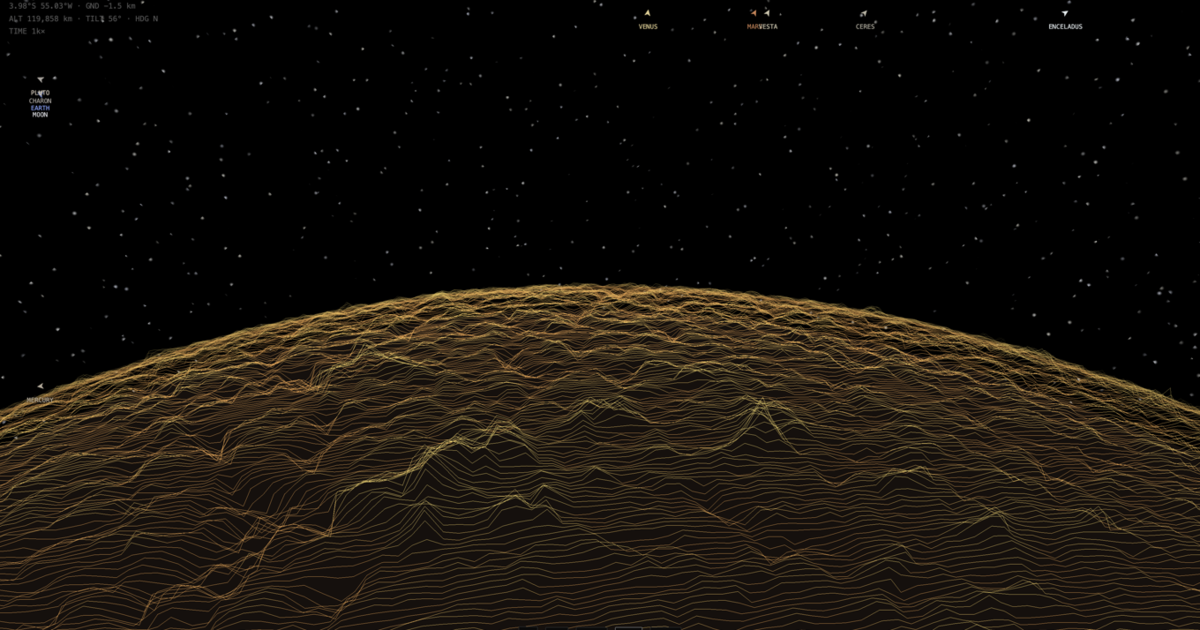
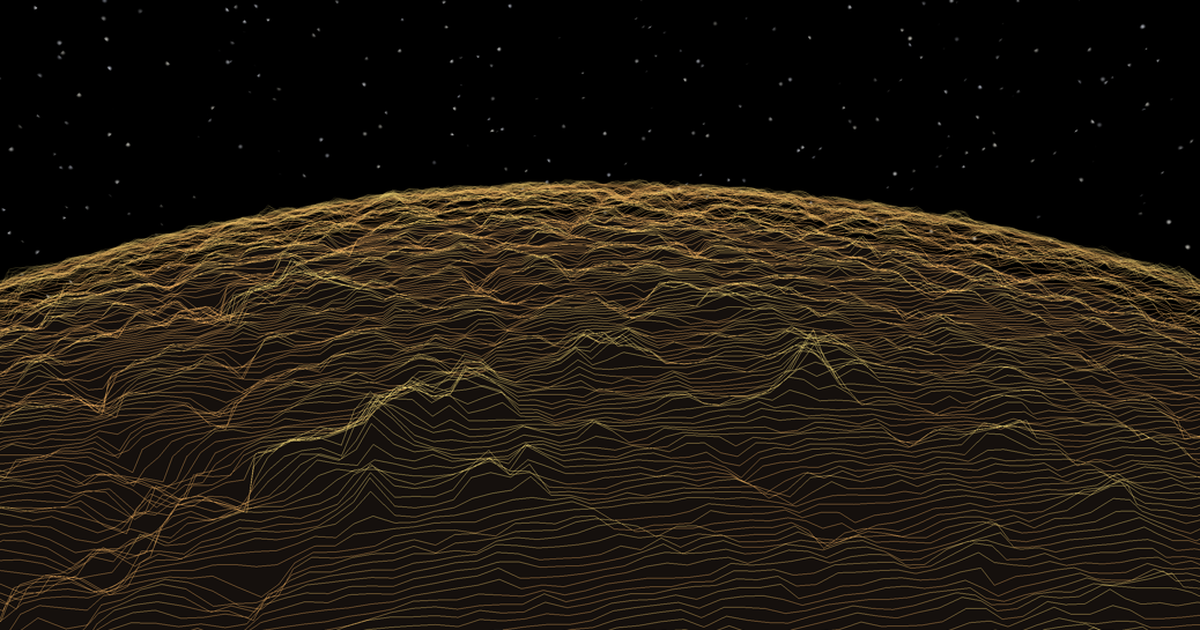
OG cards: tighter astres crop, larger home line, no em-dash in card titles

diff --git a/astres/index.html b/astres/index.html
@@ -5,7 +5,7 @@
   <meta name="viewport" content="width=device-width, initial-scale=1">
   <title>astres — trucs.ai</title>
   <meta name="description" content="The solar system drawn as stacked ridgeline graphs from real elevation data. Rust + WebAssembly + WebGPU, running in your browser.">
-  <meta property="og:title" content="astres — trucs.ai">
+  <meta property="og:title" content="astres · trucs.ai">
   <meta property="og:description" content="The solar system drawn as stacked ridgeline graphs from real elevation data. Rust + WebAssembly + WebGPU, running in your browser.">
   <meta property="og:image" content="https://trucs.ai/assets/og/astres.png">
   <meta property="og:url" content="https://trucs.ai/astres/">

diff --git a/stt-llm-tts/index.html b/stt-llm-tts/index.html
@@ -5,7 +5,7 @@
   <meta name="viewport" content="width=device-width, initial-scale=1">
   <title>stt + llm + tts — trucs.ai</title>
   <meta name="description" content="Speak, transcribe, generate, and listen — all running in your browser. No server, no API key.">
-  <meta property="og:title" content="stt + llm + tts — trucs.ai">
+  <meta property="og:title" content="stt + llm + tts · trucs.ai">
   <meta property="og:description" content="Speak, transcribe, generate, and listen, all running in your browser. No server, no API key.">
   <meta property="og:image" content="https://trucs.ai/assets/og/stt-llm-tts.png">
   <meta property="og:url" content="https://trucs.ai/stt-llm-tts/">
